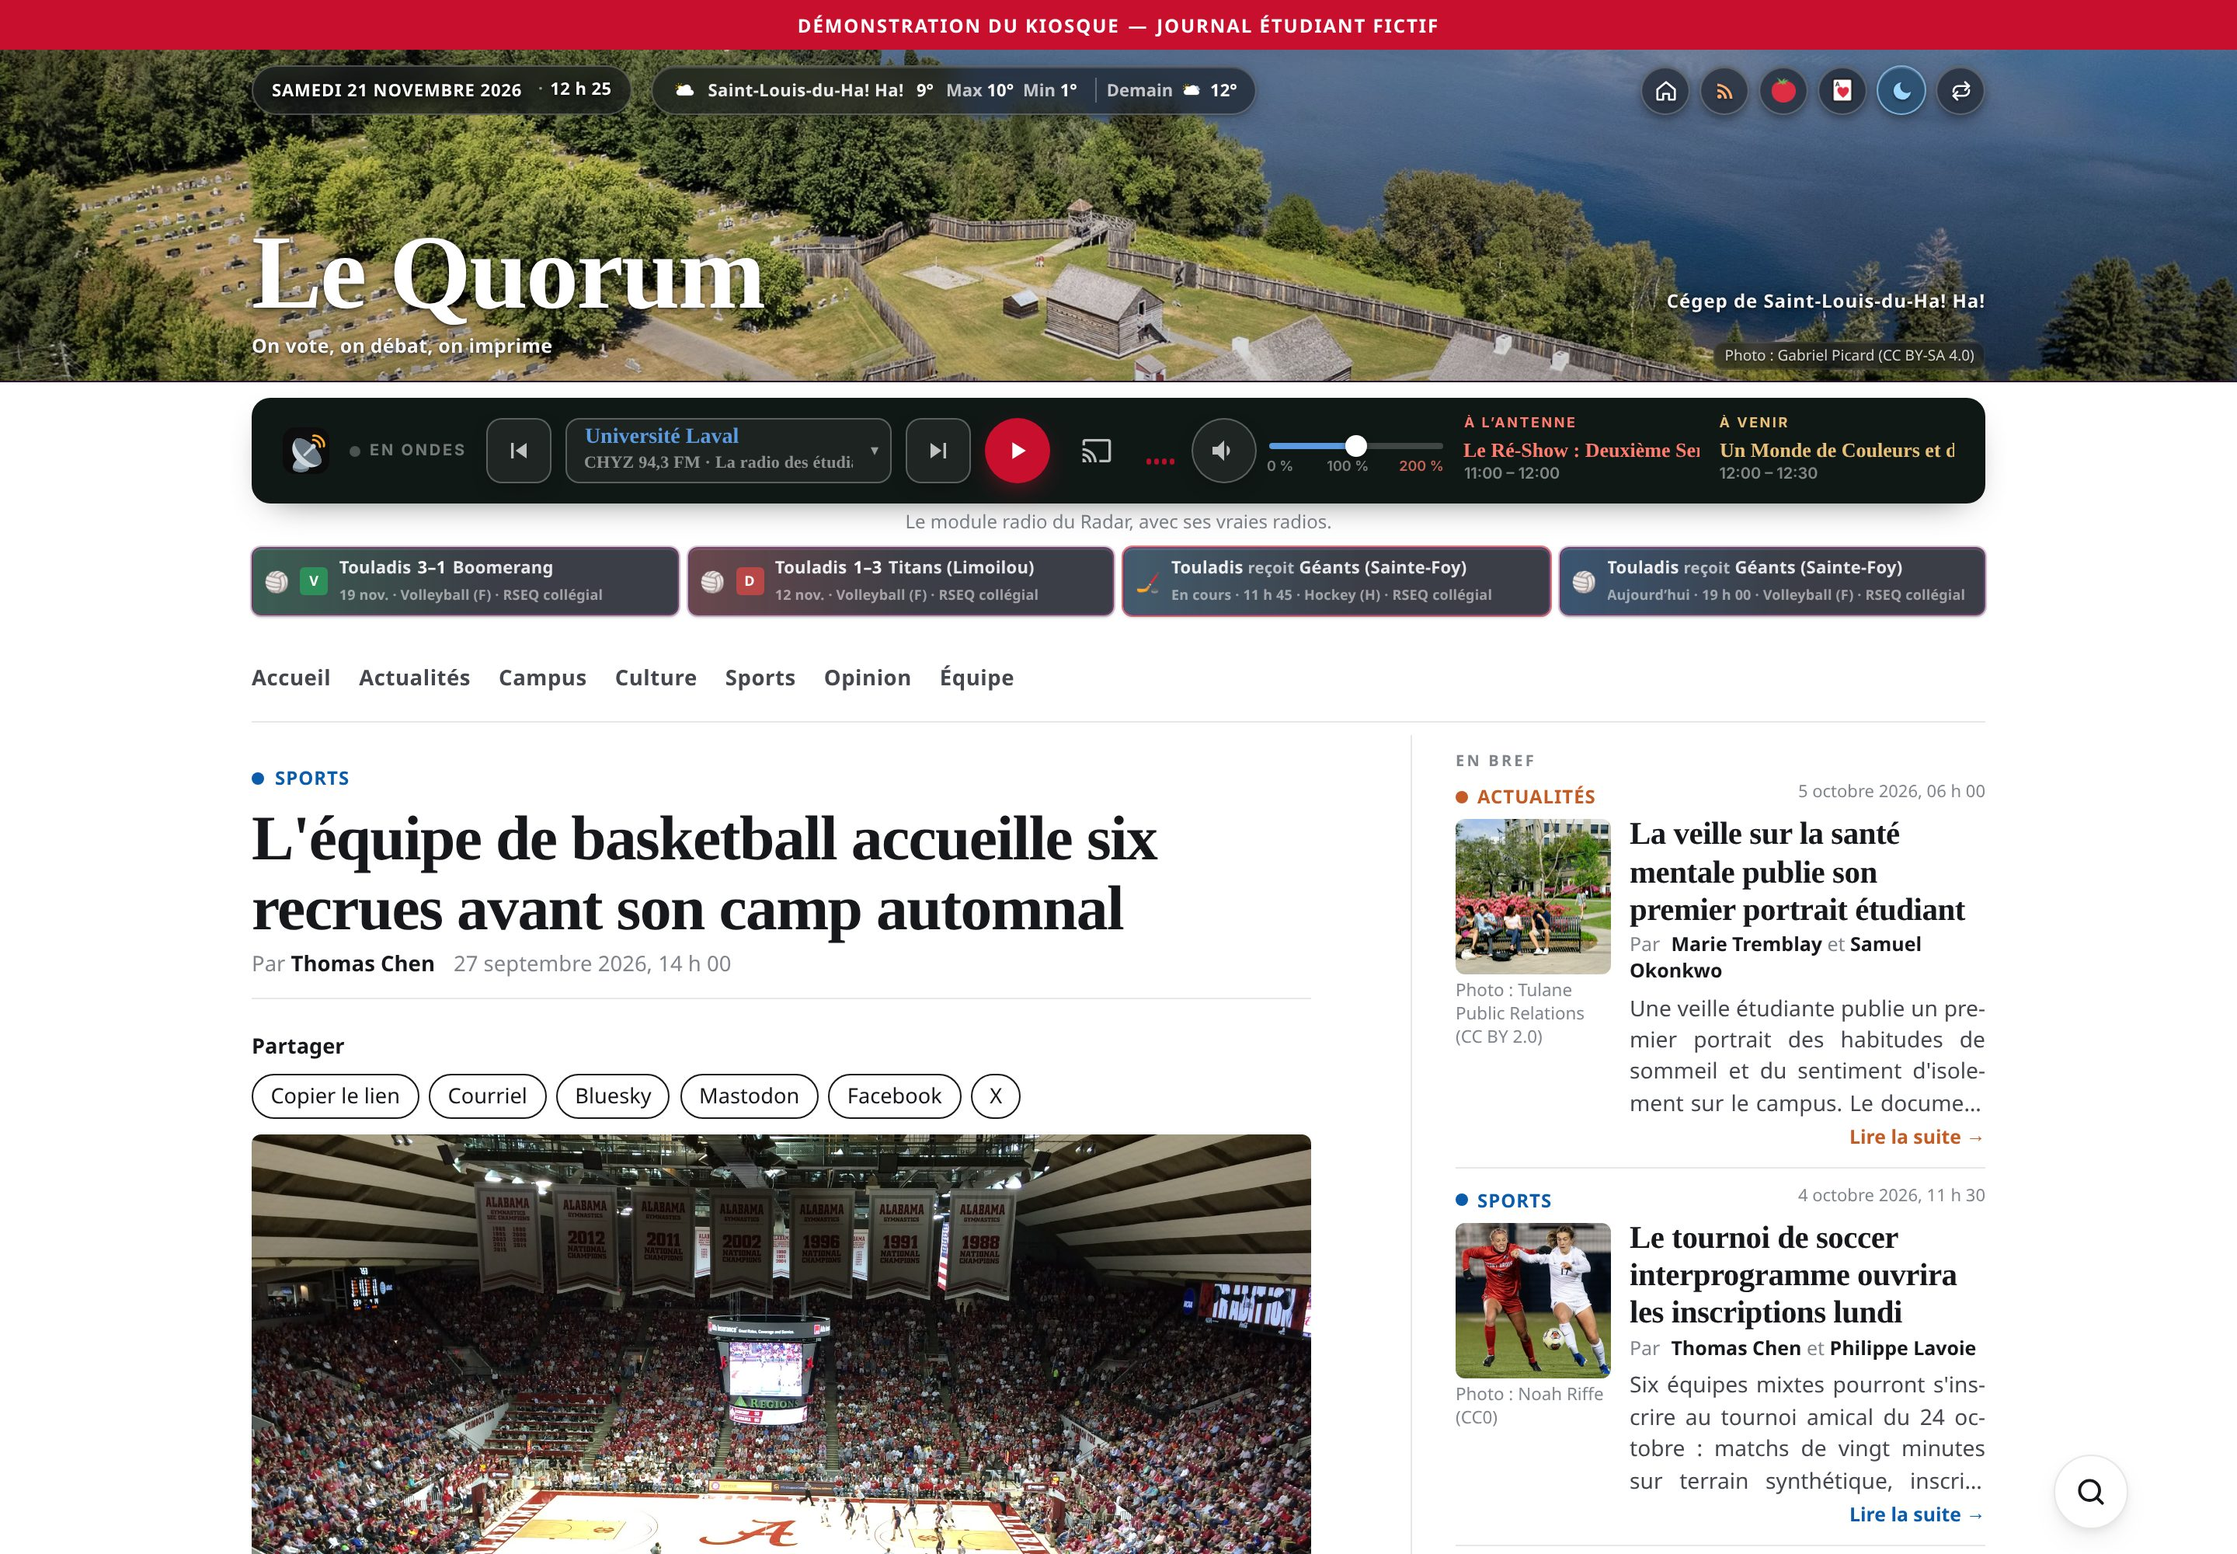
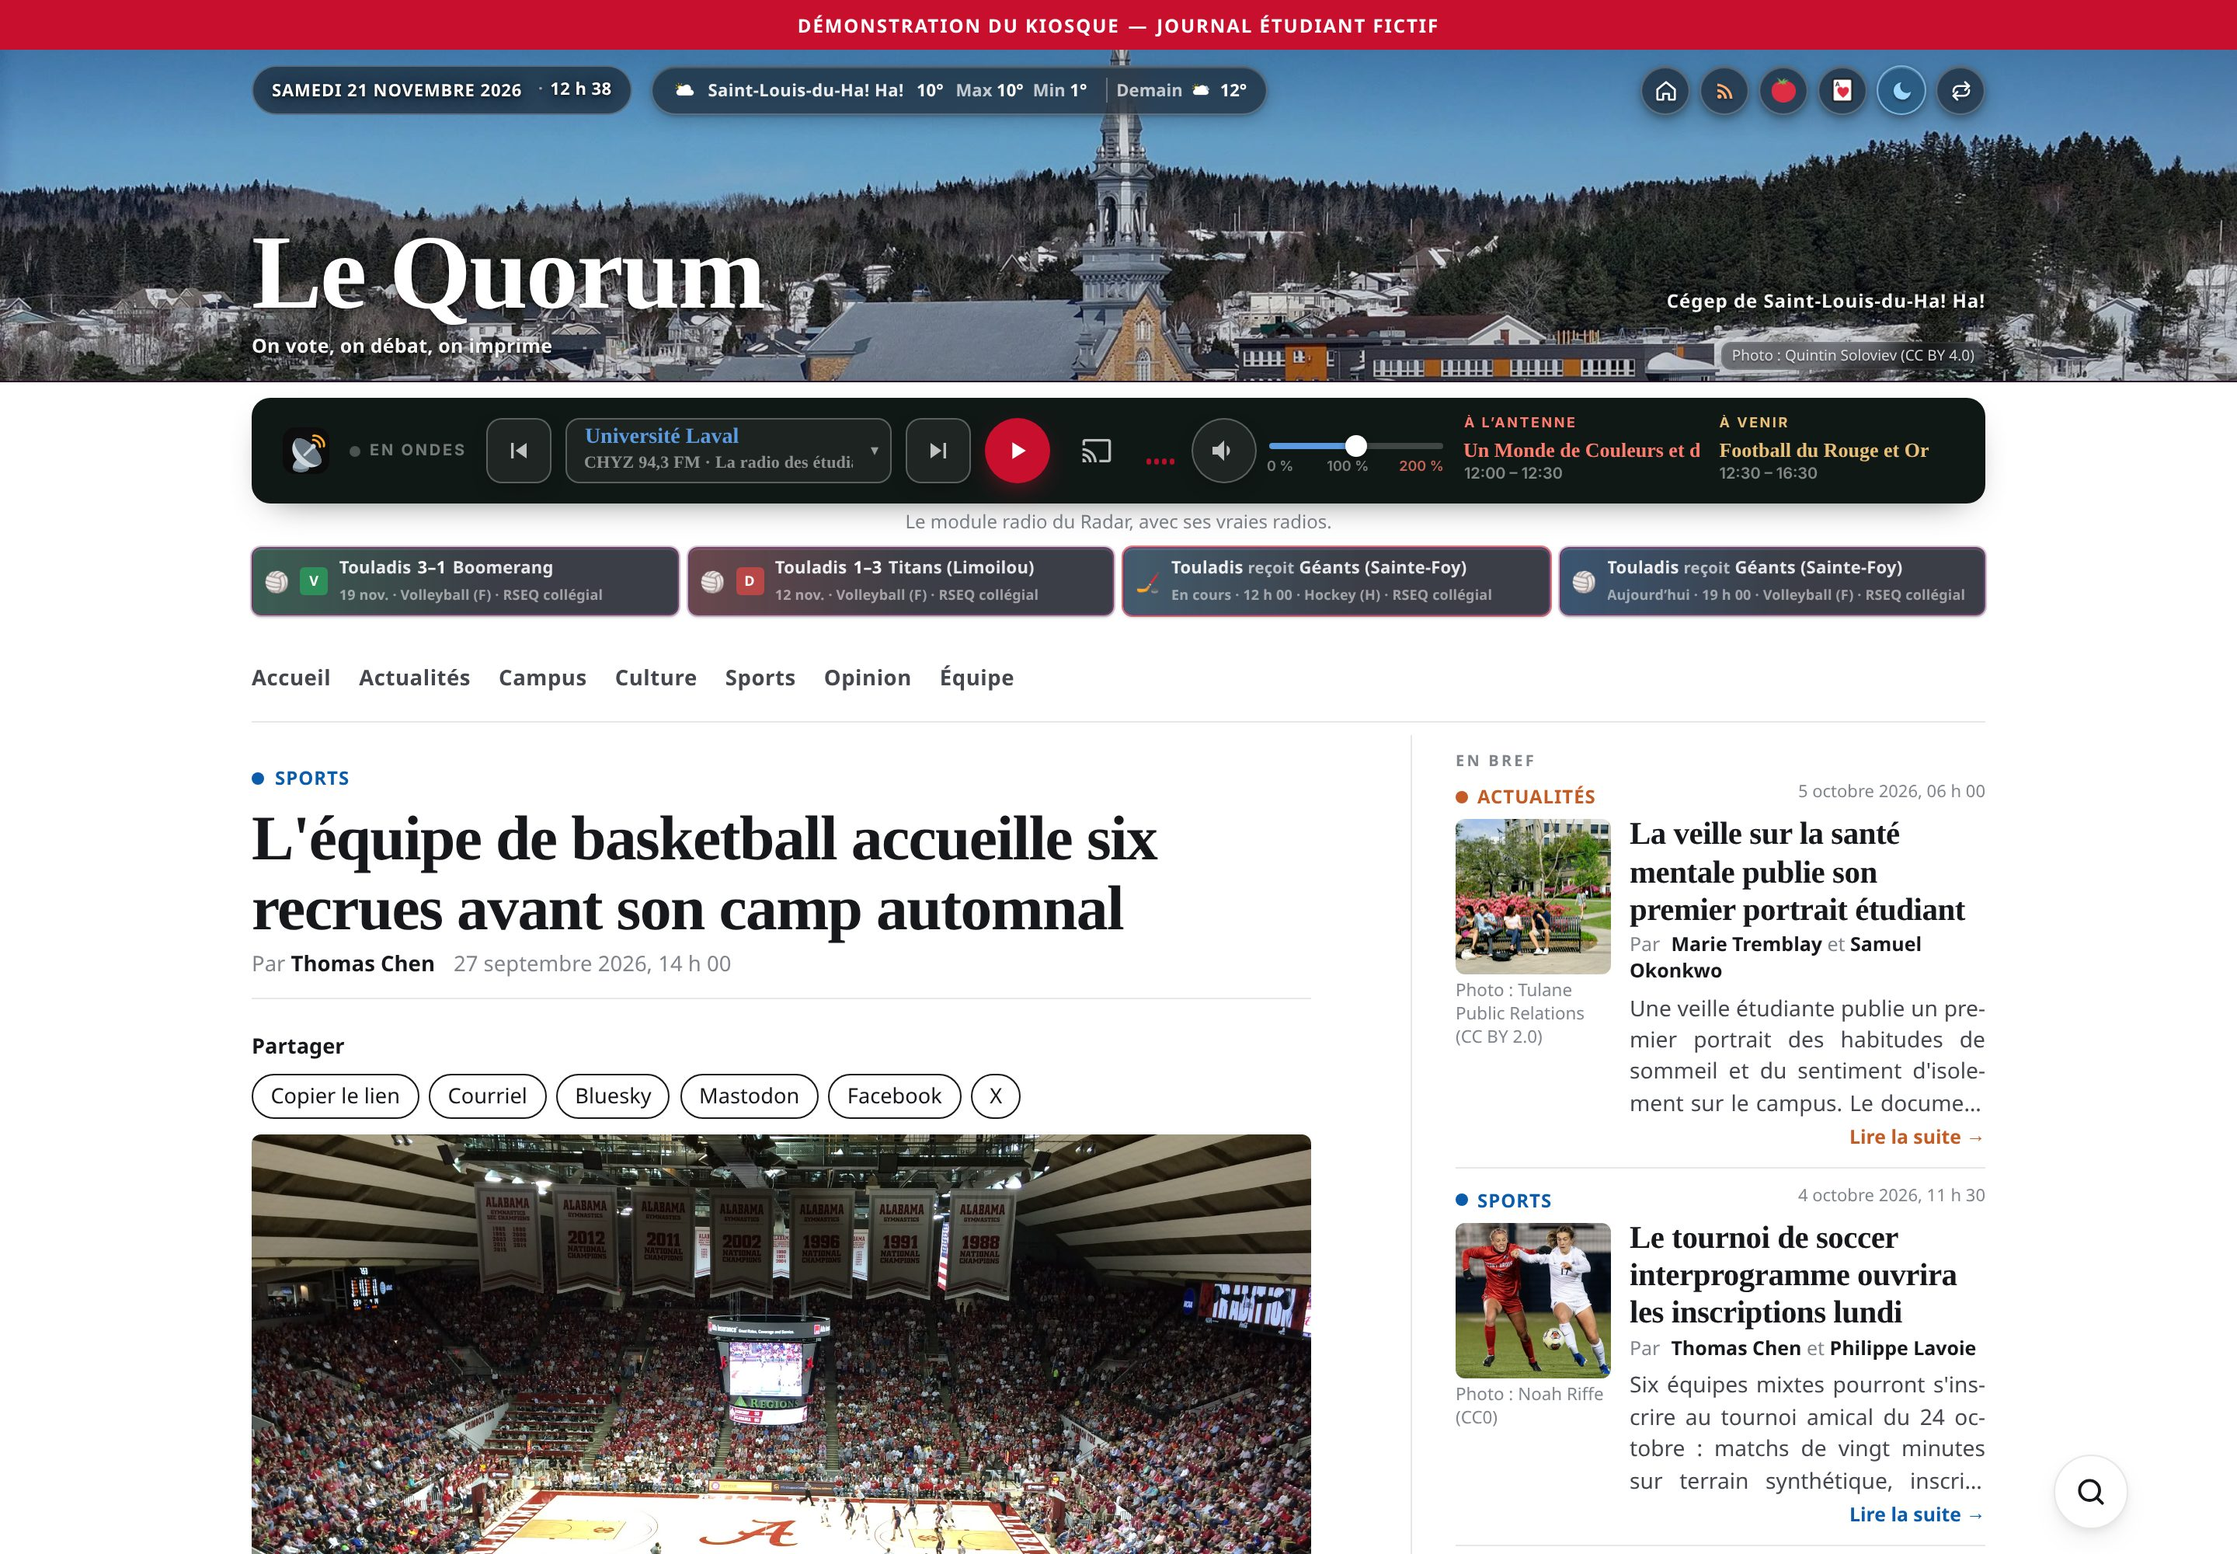
Démo : le match en cours suit l’horloge du visiteur
Le HTML figeait le coup d’envoi à l’heure du build. GitHub Actions
étant en UTC, un visiteur à Montréal voyait une heure fausse.
Au chargement, le navigateur repart des rencontres d’origine.
Le build du site est fixé à America/Toronto pour le HTML sans
JavaScript.

Changed region(s): [[0.0, 0.031, 1.0, 0.248], [0.6562, 0.279, 0.875, 0.31]]

diff --git a/tests/navigateur/sports-heure-visiteur.spec.js b/tests/navigateur/sports-heure-visiteur.spec.js
@@ -1,0 +1,180 @@
+import { spawnSync } from 'node:child_process';
+import { createServer } from 'node:http';
+import { mkdtempSync, readFileSync, rmSync, statSync } from 'node:fs';
+import { tmpdir } from 'node:os';
+import path from 'node:path';
+import { fileURLToPath } from 'node:url';
+
+import { expect, test } from '@playwright/test';
+
+const ROOT = path.resolve(fileURLToPath(new URL('../..', import.meta.url)));
+
+const FAUX_MODULE = `(function () {
+  var s = document.currentScript; if (!s) return;
+  var h = document.createElement('div'); h.className = 'radar-radio';
+  h.style.cssText = 'display:block;height:48px;background:#0a0a0b;border-radius:12px';
+  s.after(h); s.parentElement.dataset.radarRadio = 'ready';
+})();`;
+
+/** Coup d’envoi : quart d’heure précédent, moins 30 min, dans un fuseau. */
+function kickoffHm(instant, timeZone) {
+  const parts = new Intl.DateTimeFormat('en-GB', {
+    timeZone,
+    hour: '2-digit',
+    minute: '2-digit',
+    hourCycle: 'h23',
+  }).formatToParts(instant);
+  const hour = Number(parts.find((p) => p.type === 'hour')?.value);
+  const minute = Number(parts.find((p) => p.type === 'minute')?.value);
+  const quarter = Math.floor((hour * 60 + minute) / 15) * 15;
+  let total = quarter - 30;
+  if (total < 0) total += 1440;
+  const h = Math.floor(total / 60);
+  const m = total % 60;
+  return `${String(h).padStart(2, '0')}:${String(m).padStart(2, '0')}`;
+}
+
+function hmToChip(hm) {
+  return hm.replace(':', ' h ');
+}
+
+function clockLabel(iso) {
+  const raw = new Intl.DateTimeFormat('fr-CA', {
+    timeZone: 'America/Toronto',
+    hour: '2-digit',
+    minute: '2-digit',
+    hour12: false,
+  }).format(new Date(iso));
+  return String(raw)
+    .replace(/(\d{1,2})\s*[:.]\s*(\d{2})/, '$1 h $2')
+    .replace(/\s*h\s*/i, ' h ')
+    .replace(/\s+/g, ' ')
+    .trim();
+}
+
+function bakedLiveTime(html) {
+  const raw = html.match(/id="masthead-sports-strip"[^>]*data-sports-payload="([^"]+)"/);
+  if (!raw) throw new Error('le HTML statique n’a pas de payload sports');
+  const json = raw[1]
+    .replaceAll('&quot;', '"')
+    .replaceAll('&#39;', "'")
+    .replaceAll('&lt;', '<')
+    .replaceAll('&gt;', '>')
+    .replaceAll('&amp;', '&');
+  const payload = JSON.parse(json);
+  const hockey = (payload.teams || []).find((team) => team.id === 'demo-touladis-hockey-m');
+  return hockey?.nextGame?.time || '';
+}
+
+function serve(root) {
+  const server = createServer((req, res) => {
+    const url = new URL(req.url || '/', 'http://127.0.0.1');
+    let file = path.normalize(path.join(root, decodeURIComponent(url.pathname)));
+    if (!file.startsWith(root)) {
+      res.writeHead(403);
+      res.end('');
+      return;
+    }
+    try {
+      if (statSync(file).isDirectory()) file = path.join(file, 'index.html');
+    } catch {
+      res.writeHead(404);
+      res.end('');
+      return;
+    }
+    try {
+      const body = readFileSync(file);
+      const ext = path.extname(file);
+      const types = {
+        '.html': 'text/html; charset=utf-8',
+        '.js': 'text/javascript; charset=utf-8',
+        '.css': 'text/css; charset=utf-8',
+        '.json': 'application/json',
+        '.svg': 'image/svg+xml',
+        '.jpg': 'image/jpeg',
+        '.webp': 'image/webp',
+        '.png': 'image/png',
+        '.woff2': 'font/woff2',
+      };
+      res.writeHead(200, { 'content-type': types[ext] || 'application/octet-stream' });
+      res.end(body);
+    } catch {
+      res.writeHead(404);
+      res.end('');
+    }
+  });
+  return new Promise((resolve) => {
+    server.listen(0, '127.0.0.1', () => resolve(server));
+  });
+}
+
+test('un build UTC affiche le coup d’envoi du visiteur à Montréal', async ({ browser }) => {
+  test.setTimeout(120_000);
+  const out = mkdtempSync(path.join(tmpdir(), 'kiosque-utc-'));
+  let server;
+  let ctx;
+  const builtAt = new Date();
+  const built = spawnSync(process.execPath, ['tools/build-site.mjs'], {
+    cwd: ROOT,
+    env: { ...process.env, TZ: 'UTC', OUT_DIR: out },
+    encoding: 'utf8',
+  });
+  expect(built.status, built.stderr || built.stdout).toBe(0);
+
+  const builtDone = new Date();
+  const html = readFileSync(path.join(out, 'demo', 'index.html'), 'utf8');
+  const baked = bakedLiveTime(html);
+  const utcBefore = kickoffHm(builtAt, 'UTC');
+  const utcAfter = kickoffHm(builtDone, 'UTC');
+  expect(
+    baked === utcBefore || baked === utcAfter,
+    `le HTML sans JS doit figer le coup d’envoi UTC (${utcBefore} ou ${utcAfter}), pas ${baked}`,
+  ).toBe(true);
+
+  // Heures montréalaises dont le coup d’envoi n’est pas celui figé au build.
+  const visits = [
+    '2026-11-21T12:07:00-05:00',
+    '2026-11-21T08:10:00-05:00',
+    '2026-11-21T21:22:00-05:00',
+  ].map((iso) => ({ iso, clock: clockLabel(iso), kick: kickoffHm(new Date(iso), 'America/Toronto') }));
+  const visit = visits.find((item) => item.kick !== baked) || visits[0];
+  const expectedChip = hmToChip(visit.kick);
+  expect(visit.kick).not.toBe(baked);
+
+  server = await serve(out);
+  const address = server.address();
+  const origin = `http://127.0.0.1:${address.port}`;
+  ctx = await browser.newContext({
+    timezoneId: 'America/Toronto',
+    locale: 'fr-CA',
+    viewport: { width: 1440, height: 900 },
+  });
+  await ctx.route('https://le-radar.ca/**', (route) => {
+    if (route.request().url().endsWith('/radio-barre.js')) {
+      return route.fulfill({ status: 200, contentType: 'text/javascript', body: FAUX_MODULE });
+    }
+    return route.fulfill({ status: 204, body: '' });
+  });
+  try {
+    await ctx.clock.install({ time: visit.iso });
+    const page = await ctx.newPage();
+    await page.goto(`${origin}/demo/`, { waitUntil: 'domcontentloaded' });
+    await page.waitForFunction((chip) => {
+      const clock = document.querySelector('[data-masthead-time]')?.textContent || '';
+      const sports = document.querySelector('#masthead-sports-strip')?.innerText || '';
+      return clock.includes(chip.clock) && sports.includes('En cours') && sports.includes(chip.kick);
+    }, { clock: visit.clock, kick: expectedChip });
+    const shown = await page.evaluate(() => ({
+      tz: Intl.DateTimeFormat().resolvedOptions().timeZone,
+      clock: document.querySelector('[data-masthead-time]')?.textContent?.trim(),
+      sports: document.querySelector('#masthead-sports-strip')?.innerText || '',
+    }));
+    expect(shown.tz).toBe('America/Toronto');
+    expect(shown.clock).toContain(visit.clock);
+    expect(shown.sports).toContain(`En cours · ${expectedChip}`);
+  } finally {
+    await ctx?.close();
+    if (server) await new Promise((resolve) => server.close(resolve));
+    rmSync(out, { recursive: true, force: true });
+  }
+});

diff --git a/packages/theme-radar/src/templates.ts b/packages/theme-radar/src/templates.ts
@@ -462,18 +462,19 @@ function sportsPayload(ctx: RenderContext): string {
   if (!sports || sports.enabled === false) return '';
   const teams = sportsTeamRoster(sports);
   if (!teams.length) return '';
-  /* Focus-group B : prune sessions (demoAsOf / demoLive en démo, sinon now). */
-  const pruned = pruneSportsPayload(
-    {
-      teams,
-      results: sports.results ?? [],
-      nextGame: sports.nextGame ?? null,
-      nextGames: sports.nextGames ?? [],
-      demoAsOf: sports.demoAsOf,
-      demoLive: sports.demoLive,
-    },
-    { demoAsOf: sports.demoAsOf, demoLive: sports.demoLive },
-  );
+  /* Focus-group B : prune sessions (demoAsOf / demoLive en démo, sinon now).
+   * Le HTML fige ce calcul dans le fuseau du build (sans JS). `demoSource`
+   * garde l’ancre et les heures d’origine : au chargement, le navigateur
+   * refait le même calcul avec l’horloge du visiteur. */
+  const source = {
+    teams,
+    results: sports.results ?? [],
+    nextGame: sports.nextGame ?? null,
+    nextGames: sports.nextGames ?? [],
+    demoAsOf: sports.demoAsOf,
+    demoLive: sports.demoLive,
+  };
+  const pruned = pruneSportsPayload(source, { demoAsOf: sports.demoAsOf, demoLive: sports.demoLive });
   const prunedTeams = pruned.teams ?? [];
   if (!prunedTeams.length) return '';
   const payload = {
@@ -485,6 +486,7 @@ function sportsPayload(ctx: RenderContext): string {
     href: sportsPagePath(sports, ctx),
     demoAsOf: pruned.demoAsOf ?? sports.demoAsOf,
     demoLive: sports.demoLive,
+    demoSource: sports.demoLive === true ? source : undefined,
     timeZone: ctx.publication.timeZone || 'America/Toronto',
   };
   return `<div class="masthead-sports-strip masthead-sports" id="masthead-sports-strip" hidden data-sports-payload="${esc(JSON.stringify(payload))}" aria-label="Au tableau — scores et matchs" aria-live="polite"></div>`;
@@ -1117,6 +1119,7 @@ ${content}
 </div>
 <script src="${asset('/assets/bg-rotation-lib.js', ctx)}" defer></script>
 <script src="${asset('/assets/sports-board-lib.js', ctx)}" defer></script>
+${pub.masthead?.sports?.demoLive === true ? `<script type="module" src="${asset('/assets/sports-live.js', ctx)}"></script>` : ''}
 <script src="${asset('/assets/kiosque.js', ctx)}" defer></script>
 ${ctx.editorial ? `<script>window.KIOSQUE_EDITORIAL=${JSON.stringify(ctx.editorial.mode === 'socle-vivant'
   // Paquet complet : le socle PHP de la même installation remet le sous-dossier dans ces chemins.

diff --git a/packages/theme-radar/assets/kiosque.js b/packages/theme-radar/assets/kiosque.js
@@ -1752,6 +1752,34 @@
     syncMastheadWeatherDock();
   }
 
+  /**
+   * Le HTML fige le direct à l’heure du build. On repart de `demoSource`
+   * (ancre et heures d’origine) et on refait en cours / terminé / à venir
+   * avec l’horloge du visiteur. Sans le module, le HTML bâti reste affiché.
+   */
+  function alignVisitorDemoSports(payload) {
+    if (!payload || payload.demoLive !== true) return payload;
+    var align = window.KiosqueAlignDemoSports;
+    if (typeof align !== 'function') return payload;
+    var source = payload.demoSource && payload.demoSource.demoLive === true
+      ? payload.demoSource
+      : payload;
+    var next;
+    try { next = align(source, new Date()); } catch (_) { return payload; }
+    if (!next || typeof next !== 'object') return payload;
+    var merged = {};
+    var key;
+    for (key in payload) {
+      if (Object.prototype.hasOwnProperty.call(payload, key)) merged[key] = payload[key];
+    }
+    for (key in next) {
+      if (Object.prototype.hasOwnProperty.call(next, key)) merged[key] = next[key];
+    }
+    if (payload.demoSource) merged.demoSource = payload.demoSource;
+    if (merged.teams && merged.teams.length) merged.team = merged.teams[0];
+    return merged;
+  }
+
   function initMastheadSports() {
     clearSportsRotateTimer();
     var host = document.querySelector('.masthead-sports[data-sports-payload]');
@@ -1761,6 +1789,10 @@
       payload = JSON.parse(host.getAttribute('data-sports-payload') || host.dataset.sportsPayload || 'null');
     } catch (_) {
       payload = null;
+    }
+    payload = alignVisitorDemoSports(payload);
+    if (payload && payload.demoLive === true) {
+      try { host.setAttribute('data-sports-payload', JSON.stringify(payload)); } catch (_) {}
     }
     if (!payload) {
       syncSportsStripVisibility(host, false);

diff --git a/packages/theme-radar/assets/editorial/render.js b/packages/theme-radar/assets/editorial/render.js
@@ -746,6 +746,16 @@ export function applyBranding(bundle, base) {
     sportsHost.classList.add('masthead-sports-strip', 'masthead-sports');
     if (!sportsHost.id) sportsHost.id = 'masthead-sports-strip';
     const sportsHref = sportsBoardHref(base, sports);
+    // Source d’origine : le HTML du build peut être en UTC. kiosque.js
+    // recalcule le direct avec l’horloge du visiteur à partir de cette ancre.
+    const demoSource = sports.demoLive === true ? {
+      teams: sportsTeams,
+      results: sports.results || [],
+      nextGame: sports.nextGame || null,
+      nextGames: sports.nextGames || [],
+      demoAsOf: sports.demoAsOf || null,
+      demoLive: true,
+    } : undefined;
     // setAttribute : évite les surprises dataset + garantit le re-parse kiosque.js
     const sportsPayload = pruneSportsPayload({
       teams: sportsTeams,
@@ -767,6 +777,7 @@ export function applyBranding(bundle, base) {
       href: sportsHref,
       demoAsOf: sportsPayload.demoAsOf || sports.demoAsOf || null,
       demoLive: sports.demoLive || null,
+      demoSource,
       timeZone: bundle.publication.timeZone || 'America/Toronto',
     }));
     sportsHost.setAttribute('aria-label', 'Au tableau — scores et matchs');

diff --git a/packages/theme-radar/assets/sports-live.js b/packages/theme-radar/assets/sports-live.js
@@ -1,0 +1,8 @@
+/**
+ * Expose le recalcul du direct de démo avant kiosque.js.
+ * Le HTML fige l’heure au build ; ce module laisse le navigateur
+ * la refaire avec l’horloge du visiteur.
+ */
+import { alignDemoSportsToToday } from './editorial/sports-freshness.js';
+
+globalThis.KiosqueAlignDemoSports = alignDemoSportsToToday;
